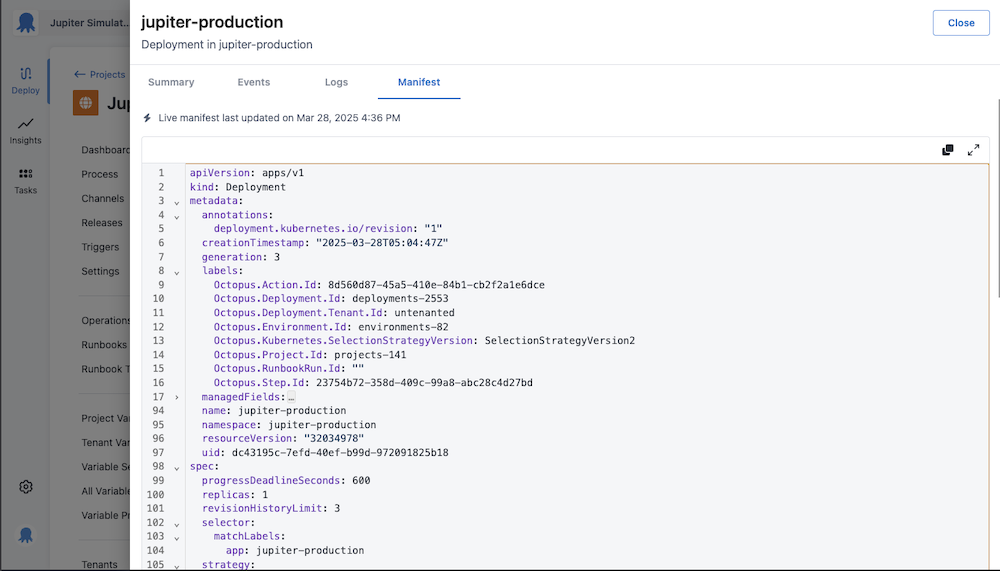
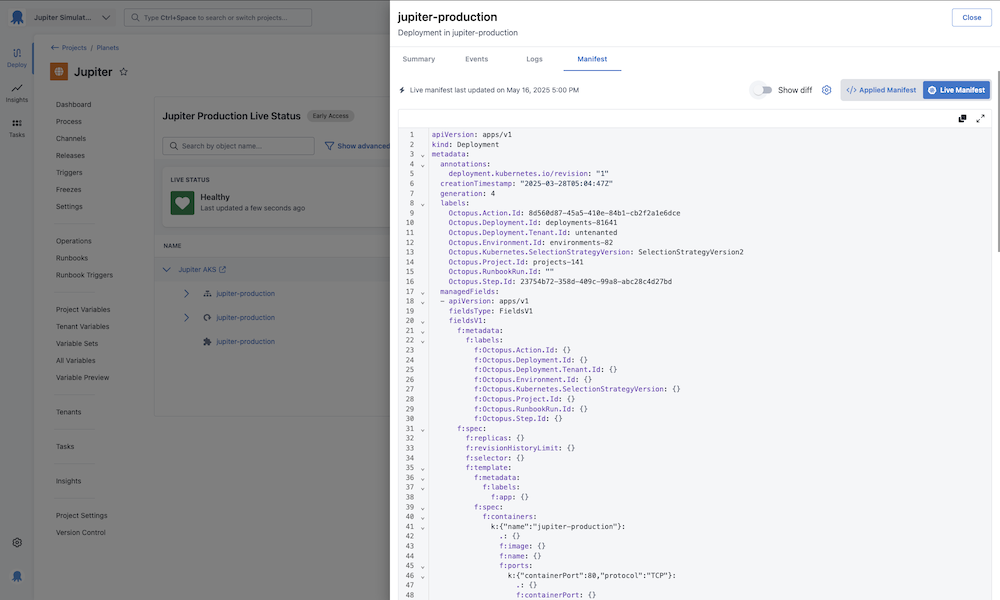
Add docs for KLOS diffs

diff --git a/src/pages/docs/kubernetes/live-object-status/index.md b/src/pages/docs/kubernetes/live-object-status/index.md
@@ -1,7 +1,7 @@
 ---
 layout: src/layouts/Default.astro
 pubDate: 2025-03-28
-modDate: 2025-03-28
+modDate: 2025-05-16
 navSection: Live Object Status
 title: Kubernetes Live Object Status
 navTitle: Overview
@@ -95,12 +95,23 @@ Logs are fetched on demand from the running object. We do not currently support 
 ![Object logs](/docs/kubernetes/live-object-status/live-status-drawer-logs.png)
 :::
 
-#### Manifest
+#### Manifests
 
-The manifest shown here is the live manifest as reported by the cluster back to Octopus.
+The first manifest shown is the live manifest as reported by the cluster back to Octopus.
+
+When viewing an object that has been applied to your cluster, you are able to view the applied manifest and see any differences between them using the controls at the top of the drawer.
 
 :::figure
 ![Object manifest](/docs/kubernetes/live-object-status/live-status-drawer-manifest.png)
+:::
+
+##### Diffs
+
+When the show diff toggle is enabled, we compare the live manifest that we expect to see on the left, with what the cluster is reporting on the right.
+Read about [applied manifest diffs](/docs/kubernetes/deployment-verification/applied-manifests/diffs) for more details on how to interpret the diff viewer.
+
+:::figure
+![Object manifest diffs](/docs/kubernetes/live-object-status/live-status-drawer-manifest-diffs.png)
 :::
 
 ## How it works
